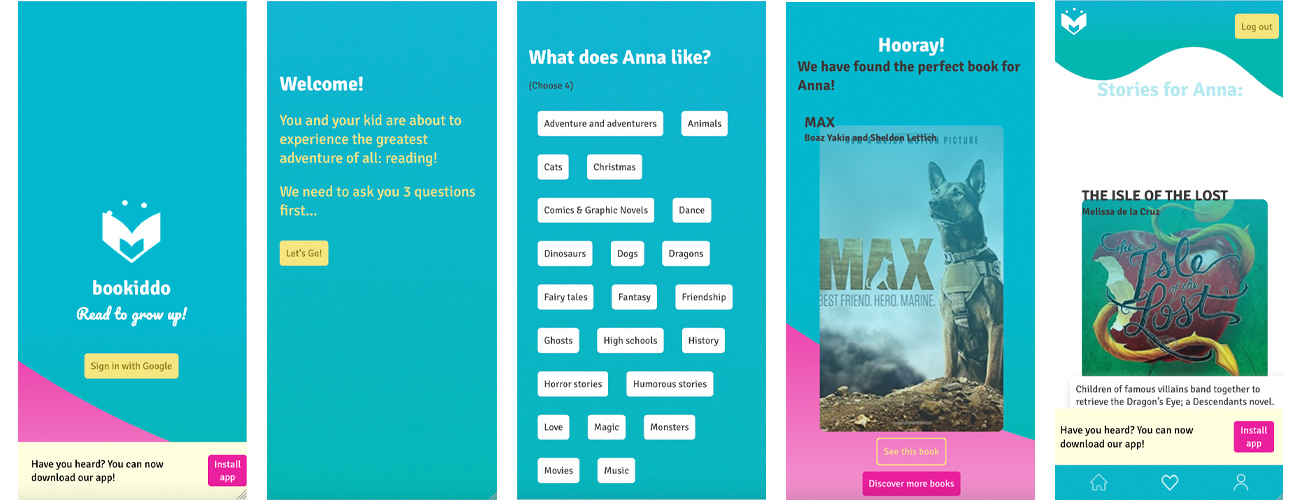
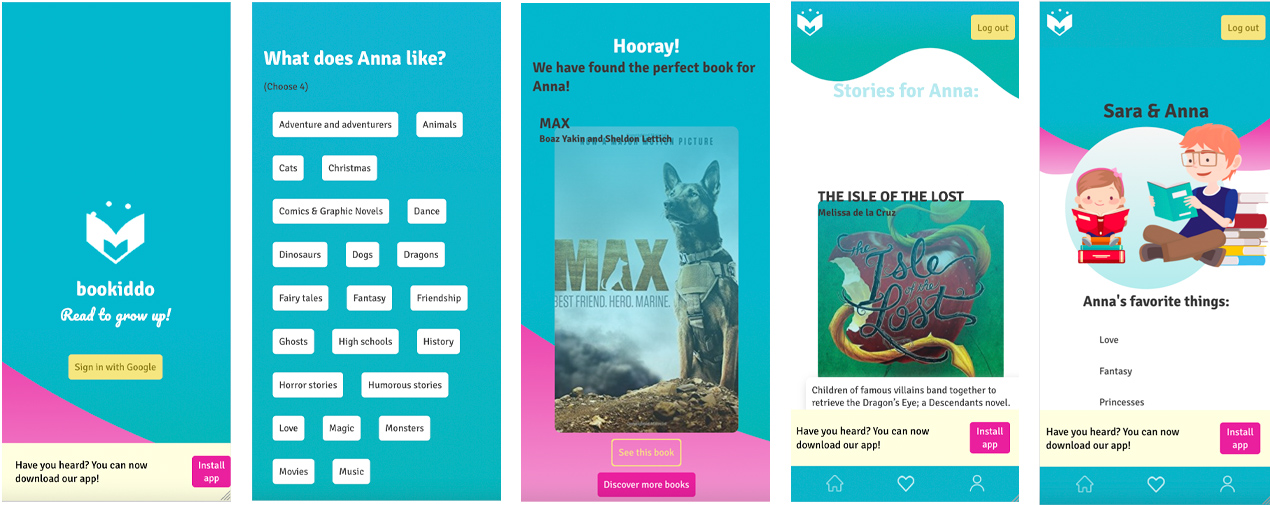
Fix account padding and update preview

diff --git a/src/components/AccountData/index.tsx b/src/components/AccountData/index.tsx
@@ -23,7 +23,7 @@ const Account = () => {
   );
   const nameOnly = kidData.name.substring(0, kidData.name.indexOf(" "));
   return (
-    <div className="bg-shape1 wrapper centered h100">
+    <div className="bg-shape1 wrapper centered h100 top-padding">
       <h1>
         {nameOnly} & {kidData.kidName}
       </h1>

diff --git a/src/styles/spacing.scss b/src/styles/spacing.scss
@@ -13,7 +13,6 @@
   height: 100vh;
 }
 .wrapper {
-  padding: 75px 20px;
   &.centered {
     @include wrap-center;
   }
